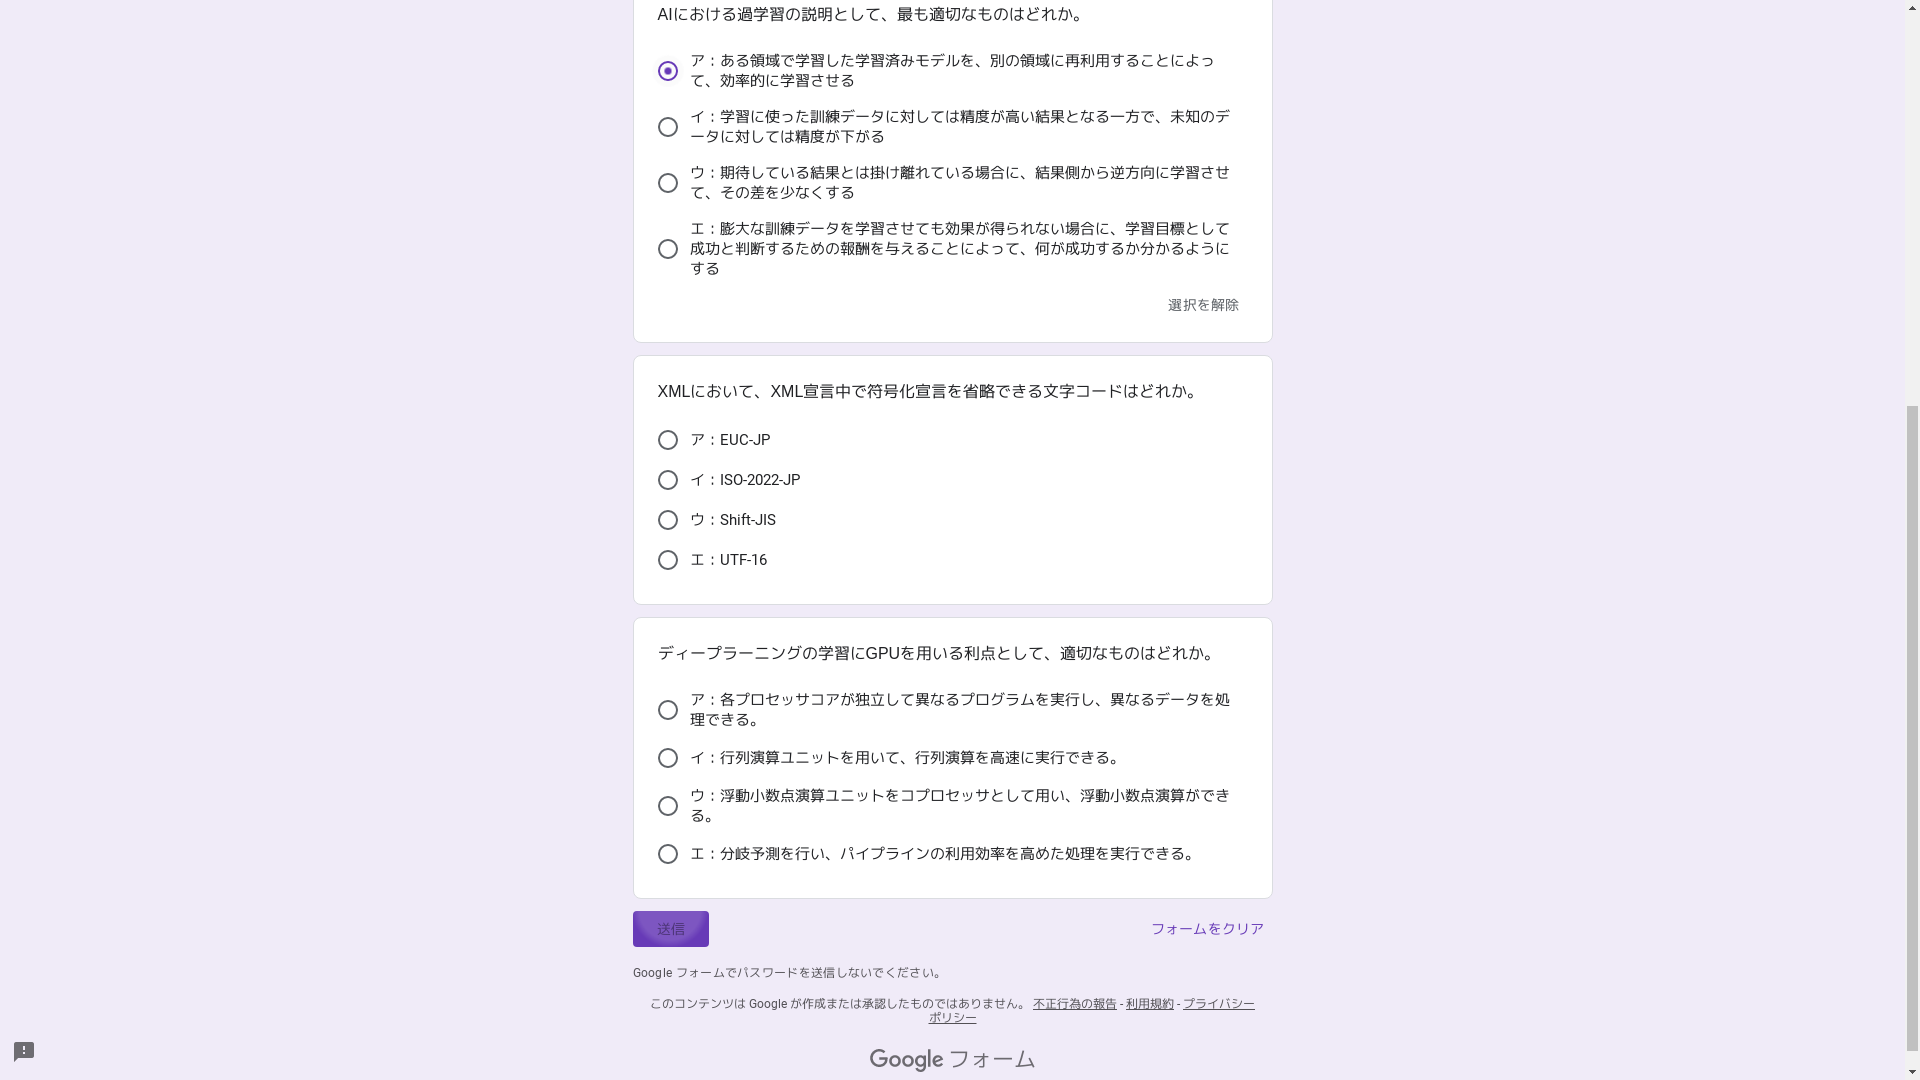
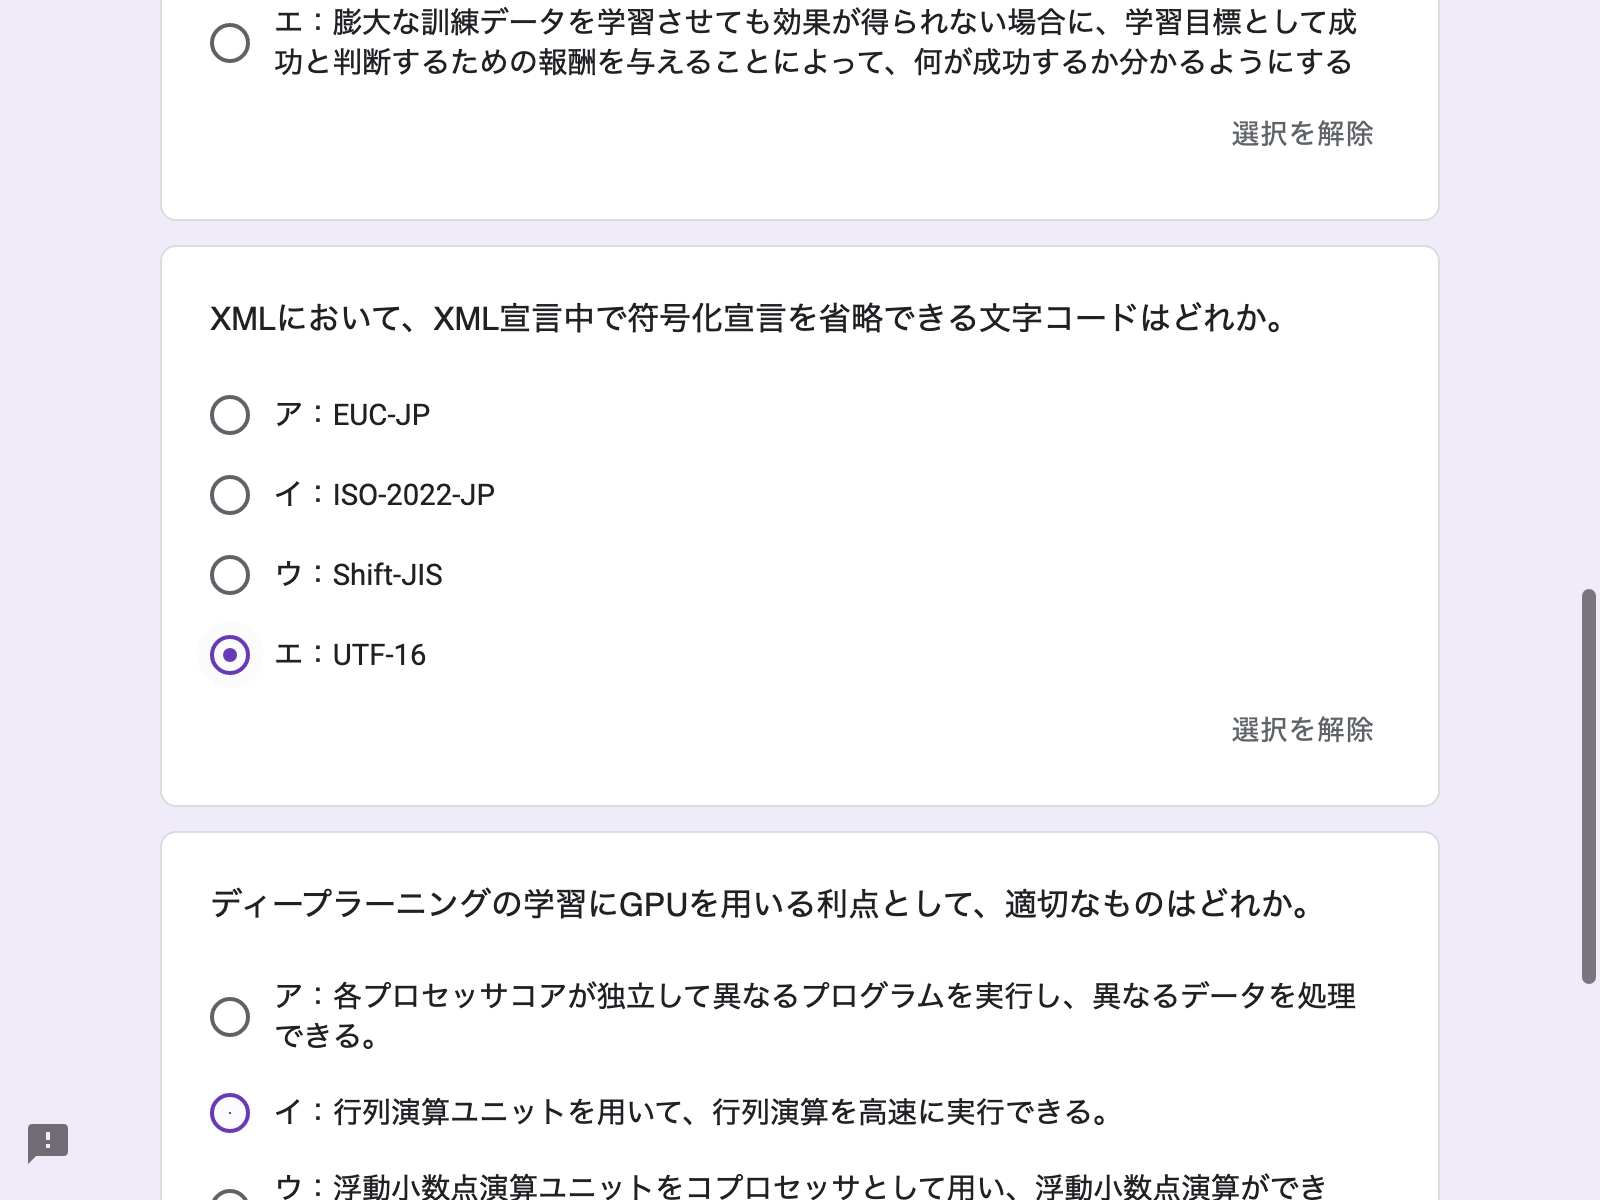
🐛:bug: Found a bug.

diff --git a/web-scraping/ap4s/src/main.rs b/web-scraping/ap4s/src/main.rs
@@ -1,9 +1,12 @@
 use std::{
     fmt::{self},
+    io,
     sync::Arc,
 };
 
-use headless_chrome::{Browser, Element, Tab};
+use headless_chrome::{
+    protocol::cdp::Page::CaptureScreenshotFormatOption::Png, Browser, Element, Tab,
+};
 use regex::Regex;
 
 use crate::xpath::{google_form, siken_dot_com};
@@ -13,28 +16,37 @@ fn main() {
     let class_id = String::from("IH14A219");
     let id = String::from("90223");
     let name = String::from("浜田知季");
-
-    let form_url = "https://docs.google.com/forms/d/e/1FAIpQLScRkNwFH-sXyyPK-pYyP8pfCpXo5-I1JyNzB0wo1F_9RXUoJQ/viewform";
+    let form_url = r#"https://docs.google.com/forms/d/e/1FAIpQLScRkNwFH-sXyyPK-pYyP8pfCpXo5-I1JyNzB0wo1F_9RXUoJQ/viewform"#;
 
     let browser = Browser::default().unwrap();
     let form_tab = browser.wait_for_initial_tab().unwrap();
 
-    // navigate to google form website
+    println!("Now crawling...");
+
+    // navigate to the google form website.
     form_tab.navigate_to(form_url);
     form_tab.wait_until_navigated();
 
-    // enter the student infomation
-    enter_student_info(&form_tab, &Student { class_id, id, name });
+    // type the student infomation.
+    type_student_info(&form_tab, &Student { class_id, id, name });
 
-    // enter the collect.
-    enter_answear(&form_tab);
+    // type the collects.
+    type_answer(&form_tab);
 
     // submit
-    // tab.find_element_by_xpath(xpath::SUBMIT).unwrap().click();
+    form_tab
+        .find_element_by_xpath(google_form::SUBMIT)
+        .unwrap()
+        .click();
+
+    let png = form_tab.capture_screenshot(Png, None, None, true).unwrap();
+    std::fs::write("./last.png", png);
+
+    println!("...Done");
 }
 
 #[allow(unused_must_use)]
-fn enter_student_info(form_tab: &Arc<Tab>, student: &Student) {
+fn type_student_info(form_tab: &Arc<Tab>, student: &Student) {
     form_tab
         .find_element_by_xpath(&google_form::Student::ClassId.to_string())
         .unwrap()
@@ -50,52 +62,109 @@ fn enter_student_info(form_tab: &Arc<Tab>, student: &Student) {
 }
 
 #[allow(unused_must_use)]
-fn enter_answear(form_tab: &Arc<Tab>) {
-    get_answears(form_tab);
-    let answers = vec![
-        form_tab
-            .find_elements_by_xpath(&google_form::Option::A.to_string())
-            .unwrap(),
-        form_tab
-            .find_elements_by_xpath(&google_form::Option::I.to_string())
-            .unwrap(),
-        form_tab
-            .find_elements_by_xpath(&google_form::Option::U.to_string())
-            .unwrap(),
-        form_tab
-            .find_elements_by_xpath(&google_form::Option::E.to_string())
-            .unwrap(),
-    ];
+fn type_answer(form_tab: &Arc<Tab>) {
+    let answers = get_answers(form_tab);
+    for (i, ans) in (0_i32..).zip(answers.iter()) {
+        match ans.to_owned() {
+            ans if ans == Answers::A.to_string() => {
+                form_tab
+                    .find_element_by_xpath(&google_form::Answers::A(i).to_string())
+                    .unwrap()
+                    .click();
+            }
+            ans if ans == Answers::I.to_string() => {
+                form_tab
+                    .find_element_by_xpath(&google_form::Answers::I(i).to_string())
+                    .unwrap()
+                    .click();
+            }
+            ans if ans == Answers::U.to_string() => {
+                form_tab
+                    .find_element_by_xpath(&google_form::Answers::U(i).to_string())
+                    .unwrap()
+                    .click();
+            }
+            ans if ans == Answers::E.to_string() => {
+                form_tab
+                    .find_element_by_xpath(&google_form::Answers::E(i).to_string())
+                    .unwrap()
+                    .click();
+            }
+            _ => (),
+        }
+    }
 }
 
 #[allow(unused_must_use)]
-fn get_answears(form_tab: &Arc<Tab>) {
+fn get_answers(form_tab: &Arc<Tab>) -> Vec<String> {
+    println!("{:#?}", get_questions(form_tab));
     let links = get_questions(form_tab)
         .iter()
-        .map(|title| find_website_links(&Url::GoogleSearch(title).to_string()))
-        .collect::<Vec<Vec<String>>>();
+        .map(|ans| {
+            // println!("{}", ans.to_owned());
+            let tp = (
+                ans.to_owned(),
+                find_website_links(&Url::GoogleSearch(ans).to_string()),
+            );
+            // println!("{}", ans.to_owned());
+            tp
+        })
+        .collect::<Vec<(String, Vec<String>)>>();
+    let mut collects = Vec::new();
+    let browser = Browser::default().unwrap();
+    let siken_tab = browser.wait_for_initial_tab().unwrap();
 
-    'top: for link in links.iter() {
-        let browser = Browser::default().unwrap();
-        let siken_tab = browser.wait_for_initial_tab().unwrap();
-        for url in link.iter() {
-            println!("{}", url);
+    'top: for (i, link) in (0_i32..).zip(links.iter()) {
+        let collect_cnt = collects.len();
+        for url in link.1.iter() {
             siken_tab.navigate_to(url);
             siken_tab.wait_until_navigated();
-            let answear = get_node_value(
+            let ans = get_node_value(
                 &siken_tab
-                    .find_element_by_xpath(&siken_dot_com::Question::Answear.to_string())
+                    .find_element_by_xpath(&siken_dot_com::Question::Answer.to_string())
                     .unwrap(),
             );
+            println!("{}", collect_cnt);
+            if rm_symbol(&ans) == rm_symbol(&link.0) {
+                let collect = get_node_value(
+                    &siken_tab
+                        .find_element_by_xpath(&siken_dot_com::Question::Collect.to_string())
+                        .unwrap(),
+                );
+                println!("{}. {}: {}", i + 1, ans, collect);
+                collects.push(collect);
+                continue 'top;
+            }
+        }
 
-            let collect = get_node_value(
-                &siken_tab
-                    .find_element_by_xpath(&siken_dot_com::Question::Collect.to_string())
-                    .unwrap(),
-            );
-            println!("{}: {}", answear, collect)
+        if collects.len() != collect_cnt + 1 {
+            println!("Answer is not found. Please search and type an answear.");
+            let mut input = String::new();
+            loop {
+                io::stdin().read_line(&mut input);
+                match input.trim().to_owned() {
+                    input
+                        if input == Answers::A.to_string()
+                            || input == Answers::I.to_string()
+                            || input == Answers::U.to_string()
+                            || input == Answers::E.to_string() =>
+                    {
+                        break;
+                    }
+                    _ => {
+                        println!("You've typed an answer that is not in the options.\nPleaase type answer here again")
+                    }
+                }
+            }
         }
     }
+    collects
+}
+
+fn rm_symbol(ans: &str) -> String {
+    let mut answer = ans.to_owned();
+    answer.retain(|c| !r#"(),、，？?。・ .;:"#.contains(c));
+    answer
 }
 
 #[allow(unused_must_use)]
@@ -103,7 +172,6 @@ fn find_website_links(url: &str) -> Vec<String> {
     let browser = Browser::default().unwrap();
     let browser_tab = browser.wait_for_initial_tab().unwrap();
 
-    // navigate to past tests website
     browser_tab.navigate_to(url);
     browser_tab.wait_until_navigated();
 
@@ -111,10 +179,10 @@ fn find_website_links(url: &str) -> Vec<String> {
     let els = browser_tab.find_elements("a").unwrap();
     let attrs = els.iter().map(|x| x.get_attributes().unwrap().unwrap());
     let mut urls = vec![];
-    attrs.for_each(|x| {
-        x.iter().for_each(|x| {
+    attrs.for_each(|url| {
+        url.iter().for_each(|x| {
             if rx.is_match(x) {
-                urls.push(x.clone());
+                urls.push(x.to_owned());
             }
         })
     });
@@ -124,7 +192,7 @@ fn find_website_links(url: &str) -> Vec<String> {
 #[allow(unused_must_use)]
 fn get_questions(form_tab: &Arc<Tab>) -> Vec<String> {
     form_tab
-        .find_elements_by_xpath(r#"//*[@class="M7eMe"]/span"#)
+        .find_elements_by_xpath(google_form::QUESTIONS)
         .unwrap()
         .iter()
         .map(get_node_value)
@@ -132,9 +200,11 @@ fn get_questions(form_tab: &Arc<Tab>) -> Vec<String> {
 }
 
 fn get_node_value(el: &Element) -> String {
-    el.get_description().unwrap().children.unwrap()[0]
+    let node_value = el.get_description().unwrap().children.unwrap()[0]
         .node_value
-        .clone()
+        .to_owned();
+    println!("{:#?}", node_value);
+    node_value
 }
 
 mod xpath {
@@ -143,7 +213,7 @@ mod xpath {
         use std::fmt;
 
         pub enum Question {
-            Answear,
+            Answer,
             Collect,
         }
         impl fmt::Display for Question {
@@ -152,7 +222,7 @@ mod xpath {
                     f,
                     "{}",
                     match *self {
-                        Self::Answear =>
+                        Self::Answer =>
                             r#"//*[@id="mainCol"]/div[2]/div[2] | //*[@id="mainCol"]/div[2]/section | //*[@id="mainCol"]/div[2]/p[1]"#,
                         Self::Collect => r#"//*[@id="answerChar"]"#,
                     }
@@ -164,6 +234,7 @@ mod xpath {
     pub mod google_form {
         use std::fmt;
 
+        pub const QUESTIONS: &str = r#"//*[@class="M7eMe"]/span"#;
         pub const SUBMIT: &str = r#"//*[@id="mG61Hd"]/div[2]/div/div[3]/div[1]/div[1]/div/span"#;
 
         pub enum Student {
@@ -186,27 +257,51 @@ mod xpath {
             }
         }
 
-        pub enum Option {
-            A,
-            I,
-            U,
-            E,
+        pub enum Answers {
+            A(i32),
+            I(i32),
+            U(i32),
+            E(i32),
         }
 
-        impl fmt::Display for Option {
+        impl fmt::Display for Answers {
             fn fmt(&self, f: &mut fmt::Formatter<'_>) -> fmt::Result {
+                let i = match *self {
+                    Self::A(x) => (x, 1),
+                    Self::I(x) => (x, 2),
+                    Self::U(x) => (x, 3),
+                    Self::E(x) => (x, 4),
+                };
                 write!(
                     f,
-                    r#"//*[@id="mG61Hd"]/div[2]/div/div[2]/div[4]/div/div/div[2]/div[1]/div/span/div/div[{}]/label/div/div[2]/div/span"#,
-                    match *self {
-                        Self::A => 1,
-                        Self::I => 2,
-                        Self::U => 3,
-                        Self::E => 4,
-                    }
+                    r#"//*[@id="mG61Hd"]/div[2]/div/div[2]/div[{}]/div/div/div[2]/div[1]/div/span/div/div[{}]/label"#,
+                    i.0 + 4,
+                    i.1
                 )
             }
         }
+    }
+}
+
+enum Answers {
+    A,
+    I,
+    U,
+    E,
+}
+
+impl fmt::Display for Answers {
+    fn fmt(&self, f: &mut fmt::Formatter<'_>) -> fmt::Result {
+        write!(
+            f,
+            "{}",
+            match *self {
+                Self::A => "ア",
+                Self::I => "イ",
+                Self::U => "ウ",
+                Self::E => "エ",
+            }
+        )
     }
 }
 
@@ -223,7 +318,7 @@ pub enum Url<'a> {
 impl fmt::Display for Url<'_> {
     fn fmt(&self, f: &mut fmt::Formatter<'_>) -> fmt::Result {
         match *self {
-            Url::GoogleSearch(tltle) => write!(f, "https://www.google.com/search?q={}", tltle),
+            Url::GoogleSearch(title) => write!(f, r#"https://www.google.com/search?q={}"#, title),
         }
     }
 }
